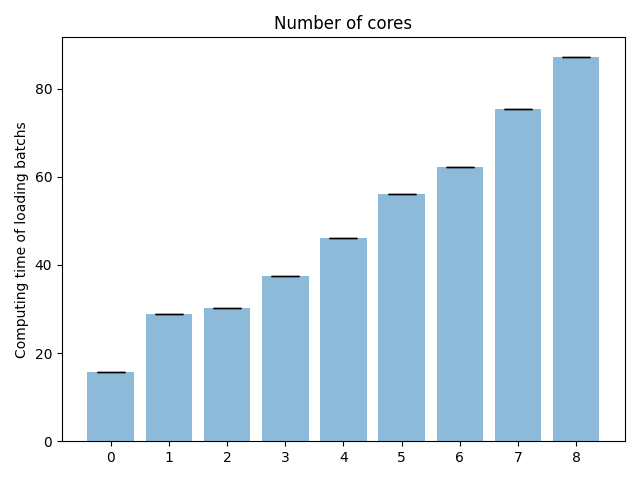
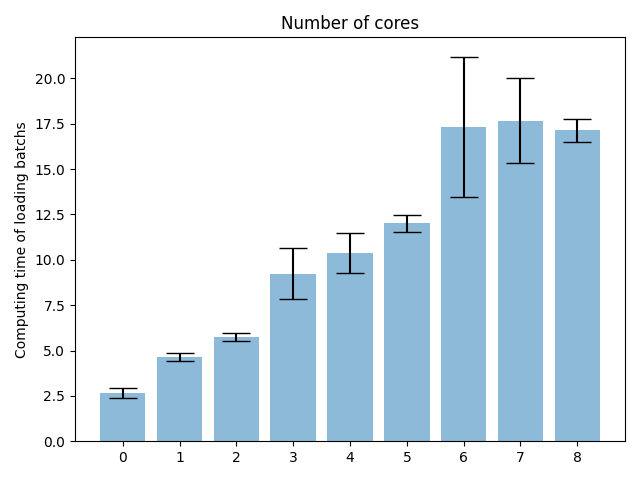
update distribution

diff --git a/src/data/distributed_data_loading.py b/src/data/distributed_data_loading.py
@@ -5,19 +5,20 @@ import time
 import numpy as np
 import torch
 
-nb_core = multiprocessing.cpu_count()
+train = torch.load("data/processed/train.pt")
 
-core = [i for i in range(0, nb_core + 1)]
-deviations = []
-timings = []
-
-if __name__ == "__main__":
+def time_per_core():
+    nb_core = multiprocessing.cpu_count()
+    core = [i for i in range(0, nb_core + 1)]
+    print(nb_core)
+    deviations = []
+    timings = []
     for i in core:
-        res = []
+        res = list()
+        print(i)
         for j in range(0, 5):
             start = time.time()
 
-            train = torch.load("data/processed/train.pt")
             train_set = torch.utils.data.DataLoader(
                 train, batch_size=90, shuffle=True, num_workers=i
             )
@@ -28,9 +29,9 @@ if __name__ == "__main__":
 
             end = time.time()
 
-            res += [end - start]
+            res.append(end - start)
 
-            res = np.array(res)
+        res = np.array(res)
         print("Timing:", np.mean(res), "+-", np.std(res))
         timings += [np.mean(res)]
         deviations += [np.std(res)]
@@ -39,3 +40,6 @@ if __name__ == "__main__":
         pickle.dump(timings, fp)
     with open("reports/distributed_datas/deviations", "wb") as fp:  # Pickling
         pickle.dump(deviations, fp)
+
+if __name__ == '__main__':
+    time_per_core()
